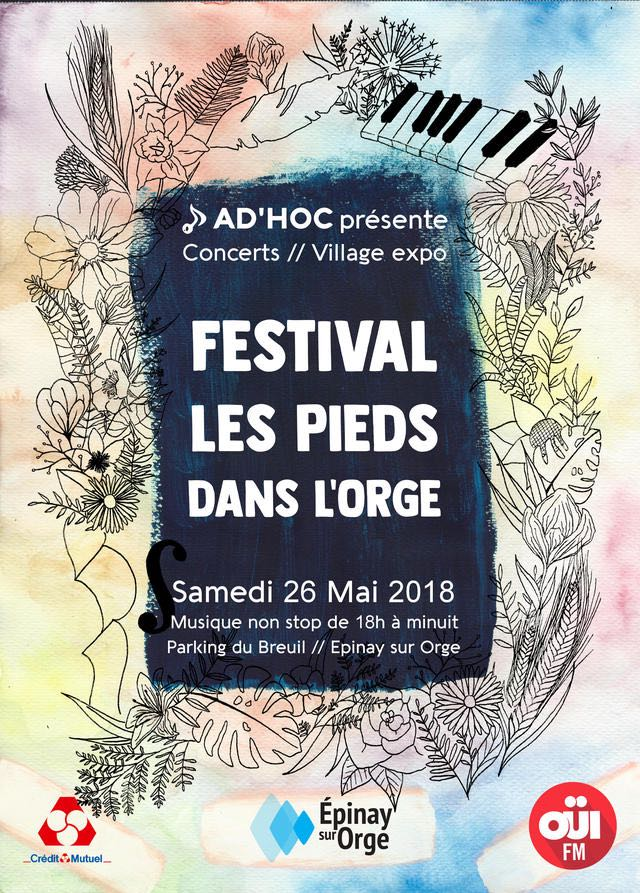
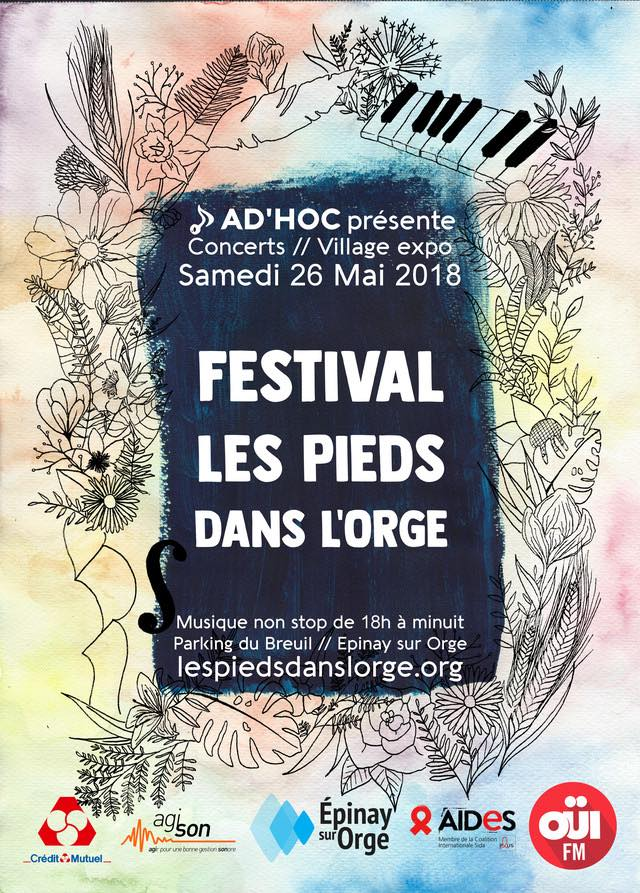
maj village

diff --git a/app/artistes.js b/app/artistes.js
@@ -3,11 +3,10 @@ module.exports = [
     id: 'conservatoire',
     name: 'Conservatoire d’Épinay-sur-Orge',
     style: 'Jazz Rock Pop',
-    description: '',
+    description: `
+    `,
     photo: '/img/artistes/conservatoire.jpg',
     video: '',
-    scene: 'petite',
-    horaire: '18:00', // 20 min
     links: {
       site: 'https://sites.google.com/site/conservatoireepinaysurorge2/',
       facebook: 'https://www.facebook.com/ConservatoireEpinaySurOrge/'
@@ -17,11 +16,11 @@ module.exports = [
     id: 'sozik',
     name: 'SOZIK',
     style: 'Jazz Rock Pop',
-    description: 'SOZIK propose un enseignement musical inédit, axé sur la création. Venez apprendre un instrument, à composer et à enregistrer vos propres morceaux !',
+    description: `
+SOZIK propose un enseignement musical inédit, axé sur la création. Venez apprendre un instrument, à composer et à enregistrer vos propres morceaux !
+    `,
     photo: '/img/artistes/sozik.jpg',
     video: '',
-    scene: 'grande',
-    horaire: '18:20', // 20 min
     links: {
       site: 'http://www.so-zik.fr/',
       facebook: 'https://www.facebook.com/sozik91/'
@@ -31,11 +30,11 @@ module.exports = [
     id: 'resonance',
     name: 'Résonance',
     style: 'Pop rock alternatif',
-    description: 'Ce groupe féminin de Palaiseau ne s’encombre pas d’un quatuor rock classique. Ni de textes anglais pour imiter les modèles du genre. A elles seules, Virginie et Cécilia forment un duo guitare-chant/batterie de pop française grungy, doux-amer et électrique. A l’image de ses rythmiques déterminées, Résonance n’y va pas par quatre chemins pour faire entendre ses histoires du quotidien. Le chant francophone trouve un équilibre délicat sur des accords à la Cobain.',
+    description: `
+Ce groupe féminin de Palaiseau ne s’encombre pas d’un quatuor rock classique. Ni de textes anglais pour imiter les modèles du genre. A elles seules, Virginie et Cécilia forment un duo guitare-chant/batterie de pop française grungy, doux-amer et électrique. A l’image de ses rythmiques déterminées, Résonance n’y va pas par quatre chemins pour faire entendre ses histoires du quotidien. Le chant francophone trouve un équilibre délicat sur des accords à la Cobain.
+    `,
     photo: '/img/artistes/resonance.jpg',
     video: 'https://www.youtube-nocookie.com/embed/1HfFqDTr5A4',
-    scene: 'petite',
-    horaire: '19:00', // 30 min
     links: {
       site: 'https://resonance-fr.bandcamp.com',
       facebook: 'https://www.facebook.com/resonancerock',
@@ -46,14 +45,13 @@ module.exports = [
     id: 'seriousstuff',
     name: 'Serious Stuff',
     style: 'Groove',
-    description: `Serious Stuff est un groupe de 7 musiciens de la région parisienne qui jouent pour le plaisir et visent à produire une musique Groovy de qualité sans se prendre trop au sérieux !
-    Leur répertoire est un mélange de compositions et de reprises aux influences variées : Parfois Blues-Rock ou plus orienté Funk, Soul, Jazz voire Reggae, ils ne veulent pas se mettre de barrières stylistiques trop rigides.
-    Leur dénominateur commun est le GROOVE. Vous savez, ce petit truc qui vous donne inconsciemment envie de taper du pied et bouger votre corps !`,
+    description: `
+Serious Stuff est un groupe de 7 musiciens de la région parisienne qui jouent pour le plaisir et visent à produire une musique Groovy de qualité sans se prendre trop au sérieux !
+Leur répertoire est un mélange de compositions et de reprises aux influences variées : Parfois Blues-Rock ou plus orienté Funk, Soul, Jazz voire Reggae, ils ne veulent pas se mettre de barrières stylistiques trop rigides.
+Leur dénominateur commun est le GROOVE. Vous savez, ce petit truc qui vous donne inconsciemment envie de taper du pied et bouger votre corps !
+    `,
     photo: '/img/artistes/seriousstuff.jpg',
-    video: '',
     video: 'https://www.facebook.com/plugins/video.php?href=https%3A%2F%2Fwww.facebook.com%2Fseriousstuffmusic%2Fvideos%2F608402309350030%2F&show_text=0&width=560&mute=0',
-    scene: 'grande',
-    horaire: '19:30', // 35 min
     links: {
       facebook: 'https://www.facebook.com/seriousstuffmusic/'
     }
@@ -62,19 +60,19 @@ module.exports = [
     id: 'pricklypearl',
     name: 'Prickly Pearl',
     style: 'Pop Folk',
-    description: `Le Projet Prickly Pearl débute en 2011. Loïc, après diverses expériences, veut revenir à ses premières amours aux sources de la musique populaire américaine.
+    description: `
+Le Projet Prickly Pearl débute en 2011. Loïc, après diverses expériences, veut revenir à ses premières amours aux sources de la musique populaire américaine.
 Sa rencontre avec Carole, à la voix grave et aux accents "Soul", est comme une évidence. Ensemble, ils vont ciseler et modeler les morceaux et définir les bases de la musique de Prickly Pearl: une Folk hybride aux racines multiples Country, Jazz, Blues, Soul.
-Dès leurs premiers passages dans les clubs, ils rencontrent un public enthousiaste, qui les encourage à poursuivre, et leur fait prendre conscience de l'aspect fédérateur de leur musique. Puis les salles de concert s’agrandissent : le Sentier des Halles et le Batofar.
-Afin d'accompagner le développement de ce projet, l'association Prickly Records voit le jour en Octobre 2012.
-Autour de Carole et Loïc plusieurs musiciens se joignent à l'aventure et Prickly Pearl trouve un équilibre artistique avec l'arrivée de Christian à la batterie et Laurent à la basse en 2013. C'est ainsi que l'éclectisme des inspirations de Prickly Pearl prend définitivement forme, ajoutant une pointe de Rock et de Pop à cette formation qui ne s'interdit plus rien.
-Bien que Christian les quitte en 2015, l'univers qu'ils ont créé ensemble demeure jusqu'à aujourd'hui l'empreinte de Prickly Pearl.
-Les mélodies et l’émotion véhiculées par Prickly Pearl vous accompagnent longtemps à ce qu'en dit le Public.
+Dès leurs premiers passages dans les clubs, ils rencontrent un public enthousiaste, qui les encourage à poursuivre, et leur fait prendre conscience de l’aspect fédérateur de leur musique. Puis les salles de concert s’agrandissent : le Sentier des Halles et le Batofar.
+Afin d’accompagner le développement de ce projet, l’association Prickly Records voit le jour en Octobre 2012.
+Autour de Carole et Loïc plusieurs musiciens se joignent à l’aventure et Prickly Pearl trouve un équilibre artistique avec l’arrivée de Christian à la batterie et Laurent à la basse en 2013. C’est ainsi que l’éclectisme des inspirations de Prickly Pearl prend définitivement forme, ajoutant une pointe de Rock et de Pop à cette formation qui ne s’interdit plus rien.
+Bien que Christian les quitte en 2015, l’univers qu’ils ont créé ensemble demeure jusqu’à aujourd’hui l’empreinte de Prickly Pearl.
+Les mélodies et l’émotion véhiculées par Prickly Pearl vous accompagnent longtemps à ce qu’en dit le Public.
 Très vite vous vous surprendrez à siffler un air de Prickly Pearl…
-La sortie du premier EP 6 titres de Prickly Pearl est prévu pour début 2017.`,
+La sortie du premier EP 6 titres de Prickly Pearl est prévu pour début 2017.
+    `,
     photo: '/img/artistes/pricklypearl.jpg',
-    video: 'https://www.youtube-nocookie.com/embed/BMYOvpYvOR4',
-    scene: 'petite',
-    horaire: '20:05', // 35 min
+    video: 'https://www.youtube-nocookie.com/embed/oPEEF5zrh0I',
     links: {
       site: 'http://pricklypearl.wix.com/website',
       soundclound: 'https://w.soundcloud.com/player/?url=https%3A//api.soundcloud.com/users/6455041&amp;color=ff5500&amp;auto_play=false&amp;hide_related=false&amp;show_comments=false&amp;show_user=true&amp;show_reposts=false',
@@ -86,11 +84,11 @@ La sortie du premier EP 6 titres de Prickly Pearl est prévu pour début 2017.`,
     id: 'oddfiction',
     name: 'Odd Fiction',
     style: 'Métal Progressif',
-    description: `Odd Fiction est une agence de voyage spécialisée dans l’exploration de paysages sonores. Véritables aventuriers du son, nous vous offrons le choix de visiter les contrées musicales les plus diverses : Funkalousie, Métaland, Rockproguistan, Experigascar… Ainsi, il vous est possible de choisir parmi une grande variété de climats mélodiques, mais aussi d’activités : Head-Banging extrême dans les blasts glacés Métalandais, Slow romantique dans l’ambiance lumineuse de Post-Rock city, ou courses de quad à 200 BPM dans les carrières rocailleuses de la République de Noise. Alors n’hésitez pas à embarquer pour un voyage unique au monde, fort en dissonances et rythmiques ambiguës, dont personne encore n’est jamais revenu.`,
+    description: `
+Odd Fiction est une agence de voyage spécialisée dans l’exploration de paysages sonores. Véritables aventuriers du son, nous vous offrons le choix de visiter les contrées musicales les plus diverses : Funkalousie, Métaland, Rockproguistan, Experigascar… Ainsi, il vous est possible de choisir parmi une grande variété de climats mélodiques, mais aussi d’activités : Head-Banging extrême dans les blasts glacés Métalandais, Slow romantique dans l’ambiance lumineuse de Post-Rock city, ou courses de quad à 200 BPM dans les carrières rocailleuses de la République de Noise. Alors n’hésitez pas à embarquer pour un voyage unique au monde, fort en dissonances et rythmiques ambiguës, dont personne encore n’est jamais revenu.
+    `,
     photo: '/img/artistes/oddfiction.jpg',
     video: 'https://www.youtube-nocookie.com/embed/BGeb9ppDMZs',
-    scene: 'grande',
-    horaire: '20:40', // 40 min
     links: {
       site: 'http://www.oddfiction.fr/',
       facebook: 'https://www.facebook.com/OddFiction/',
@@ -101,11 +99,12 @@ La sortie du premier EP 6 titres de Prickly Pearl est prévu pour début 2017.`,
     id: 'abracadabra',
     name: 'Abracadabra',
     style: 'Jazz Fusion',
-    description: '',
+    description: `
+Les membres du groupe/collectif se sont rencontré naturellement dans differentes JAM sessions (du nord de l’Essonne), dans les théatre, les salles municipales, des salles à manger, des duplex, des soirées garage... FARID et TRISTAN jouaient ensemble de "l’afro-reggae music" dans le groupe Djame Salam (gagnant de differents concours LADIAM, passages FR3 etc...) Tristan, chanteur a réalisé une centaine de videoclips dans les années 2000.
+La musique ouverte d’esprit est le dénominateur commun et ce qui motive chaque musicien c’est donc fort de notre expérience à tous, surtout en region parisienne, que nous avons décidé de porter un projet ensemble.
+    `,
     photo: '/img/artistes/abracadabra.jpg',
     video: 'https://www.facebook.com/plugins/video.php?href=https%3A%2F%2Fwww.facebook.com%2F1689859227982570%2Fvideos%2F1775594402742385%2F&show_text=0&width=560&mute=0',
-    scene: 'petite',
-    horaire: '21:20', // 35 min
     links: {
       facebook: 'https://www.facebook.com/Abracadabra-1689859227982570'
     }
@@ -114,11 +113,11 @@ La sortie du premier EP 6 titres de Prickly Pearl est prévu pour début 2017.`,
     id: 'imparfait',
     name: 'Imparfait',
     style: 'Rock Urbain',
-    description: 'IMPARFAIT c’est quatre personnalités, un groupe, une énergie fédératrice. Sur scène le quatuor délivre un rock brut et sans concession.',
+    description: `
+IMPARFAIT c’est quatre personnalités, un groupe, une énergie fédératrice. Sur scène le quatuor délivre un rock brut et sans concession.
+    `,
     photo: '/img/artistes/imparfait.jpg',
     video: 'https://www.youtube-nocookie.com/embed/ADdyuhP2beA',
-    scene: 'grande',
-    horaire: '21:55', // 40 min
     links: {
       facebook: 'https://www.facebook.com/imparfait.musique/',
       instagram: 'https://www.instagram.com/imparfait.musique/',
@@ -129,12 +128,12 @@ La sortie du premier EP 6 titres de Prickly Pearl est prévu pour début 2017.`,
     id: 'martycanfly',
     name: 'Marty Can Fly',
     style: '8bits Cheap Tunes',
-    description: `Marty Can Fly mélange Power-Pop et 8-Bit-Rock, et vous propose un spectacle bon-enfant qui vous plongera dans une ambiance musicale décalée, inspirée du cinéma, de la télévision et des jeux vidéo.
-    Ce cocktail sonore délirant mélangeant retro et Rock-Chiptune est assurément joyeux et surprenant.`,
+    description: `
+Marty Can Fly mélange Power-Pop et 8-Bit-Rock, et vous propose un spectacle bon-enfant qui vous plongera dans une ambiance musicale décalée, inspirée du cinéma, de la télévision et des jeux vidéo.
+Ce cocktail sonore délirant mélangeant retro et Rock-Chiptune est assurément joyeux et surprenant.
+    `,
     photo: '/img/artistes/martycanfly.jpg',
-    video: 'https://www.youtube-nocookie.com/embed/auT3puUSNOs',
-    scene: 'petite',
-    horaire: '22:35', // 40 min
+    video: 'https://www.youtube-nocookie.com/embed/MbP5cJEDHsk',
     links: {
       facebook: 'https://www.facebook.com/martycanfly/',
       bandcamp: 'https://martycanfly.bandcamp.com/',
@@ -146,11 +145,11 @@ La sortie du premier EP 6 titres de Prickly Pearl est prévu pour début 2017.`,
     id: 'thestalls',
     name: 'The Stalls',
     style: 'Hard Rock',
-    description: 'The Stalls a choisi de fouiller les racines du rock en privilégiant les bons vieux sons vintages des guitares et des drums pour s’exprimer. Halte aux synthés et aux ordinateurs, place aux riffs saignants et à l’énergie pure. Fans d’authenticité, venez d’urgence découvrir The Stalls…',
+    description: `
+The Stalls a choisi de fouiller les racines du rock en privilégiant les bons vieux sons vintages des guitares et des drums pour s’exprimer. Halte aux synthés et aux ordinateurs, place aux riffs saignants et à l’énergie pure. Fans d’authenticité, venez d’urgence découvrir The Stalls…
+    `,
     photo: '/img/artistes/thestalls.jpg',
     video: 'https://www.youtube-nocookie.com/embed/2hyDJ8sSnkU',
-    scene: 'grande',
-    horaire: '23:15', // 45 min
     links: {
       site: 'http://the-stalls.com/',
       facebook: 'https://www.facebook.com/thestalls/',

diff --git a/app/village.js b/app/village.js
@@ -1,0 +1,62 @@
+module.exports = [
+  {
+    id: 'drinedraw',
+    name: 'DrineDraw',
+    style: 'Peinture contemporaine',
+    description: `
+Spinolienne depuis 2 ans, Sandrine Rozier est pianiste et professeur au Conservatoire de Musique de Saulx les Chartreux.
+Peintre depuis 2006, c’est à la demande d’une amie qui venait de perdre son fils d’une tumeur cérébrale qu’elle a décidé d’aider l’ARTC (Association pour la Recherche sur les Tumeurs Cérébrales), en se procurant des toiles, des pinceaux, en exposant lors des manifestations et en reversant une partie de la recette à l’Association.
+Ses plus grandes inspirations: les voyages où chaque pays lui offre de fabuleuses couleurs. La musique qui l’accompagne chaque jour dans son travail, et l’homme ... La plus belle création avec lequel elle aime communiquer, échanger, partager.
+Sandrine a toujours aimé peindre, dessiner, bricoler, cuisiner, jardiner. En 1 mot: CRÉER.
+Elle utilise l’huile, l’acrylique, des cernes relief, du sable, des pierres, ainsi que des motifs à coller, des pochoirs, du papier de soie marouflé...
+Ses toiles peuvent servir de décoration contemporaine.
+    `,
+    photo: '/img/village/drinedraw.jpg',
+    links: {
+      site: 'http://fr.artquid.com/artist/drinedraw/sandrine-r-drinedraw.html',
+      facebook: 'https://www.facebook.com/Drinedraw-1948756922052140/',
+    } 
+  },
+  {
+    id: 'roseline-scoupe',
+    name: 'Roseline Scoupe',
+    style: 'Peinture, fusain, masques',
+    description: `
+À propos de son travail : « Ma peinture est plutôt instinctive, intuitive, symbolique. Comme la poésie ou bien la musique pour certains, la peinture est pour moi un voyage où les sentiments se mêlent et s’emmêlent… se posent ! Le parcours de vie avec ses douleurs et ses joies, la beauté que la nature offre à notre regard, tout cela me touche profondément et le besoin se ressent de transposer sur la toile. »
+    `,
+    photo: '/img/village/roseline-scoupe.jpg',
+    links: {
+      site: 'http://www.atelier-enilesor.fr/'
+    }
+  },
+  {
+    id: 'plis-foss',
+    name: 'Plis Foss',
+    style: 'Restauration',
+    photo: '/img/village/plis-foss.jpg',
+    description: `
+L’association a pour objet de promouvoir, d’entretenir des liens d’amitié entre les membres et la population environnante quelle que soit leur nationalité.
+D’autre part faire connaître et valoriser la culture antillaise, guyannaise et africaine par le biais de leurs différentes spécialités culinaires et artistiques.
+Organiser différents événements, rencontres et débats à thème, voyages, sorties, pique-nique, ateliers et travaux manuels, journées portes ouvertes, venir en aide à ses membres dans la mesure de ses possibilités.
+Pour le festival, l’association tiendra un stand de restauration.
+    `,
+    links: {
+    }
+  },
+  {
+    id: 'aides',
+    name: 'AIDES',
+    style: 'Prévention',
+    photo: '/img/village/aides.jpg',
+    description: `
+AIDES est une association française de lutte contre le VIH et les hépatites virales, créée en 1984 et reconnue d’utilité publique depuis 1990. L’association mène des actions d’information, de prévention, de soutien et de mobilisation des personnes concernées par le VIH et les hépatites.
+    `,
+    links: {
+      site: 'https://www.aides.org',
+      facebook: 'https://www.facebook.com/aides/',
+      twitter: 'https://twitter.com/assoaides',
+      instagram: 'https://www.instagram.com/assoaides/',
+      youtube: 'https://www.youtube.com/user/AIDES/videos'
+    }
+  }
+];

diff --git a/app/app.js b/app/app.js
@@ -1,7 +1,7 @@
 /* globals $, google, document */
 
 const dbArtistes = require('./artistes');
-// const dbExposants = require('./exposants');
+const dbVillage = require('./village');
 
 const gmap =
 {
@@ -16,8 +16,7 @@ function buildModal(obj) {
   <div class="bfc">
   <img src="${obj.photo}" width="480" height="360" style="float:left;padding-right:10px;padding-bottom:10px">
   <h4>${obj.name}</h4>
-  <p><strong>${obj.style}</strong></p>
-  <p>Scène: <strong>${obj.scene}</strong></p>`;
+  <p><strong>${obj.style}</strong></p>`;
 
   if (obj.links.site) {
     content += `<a class="badge social site" href="${obj.links.site}" target="_blank" title="lien vers le site"><img src="/img/social/site.svg" alt=""/></a>`;
@@ -76,8 +75,8 @@ function handleModalControls() {
  */
 function showModal(id) {
   if (!id) return;
-  const artiste = dbArtistes.filter(obj => (obj.id === id))[0];
-  buildModal(artiste);
+  const obj = dbArtistes.filter(obj => (obj.id === id))[0] || dbVillage.filter(obj => (obj.id === id))[0];
+  buildModal(obj);
   handleModalControls();
   $('.modal').show(); // affiche le fond
   $('.modal-content').hide(); // ferme les autres
@@ -103,8 +102,7 @@ function initResponsiveMenu() {
  * Charge la section Artistes
  */
 function initArtistes() {
-  // filtre grande scène ou petite scène
-  const artistes = dbArtistes.filter(obj => (obj.scene === 'grande' || obj.scene === 'petite'));
+  const artistes = dbArtistes;
   // tri alphabétique
   artistes.sort((a, b) => a.name > b.name);
   const list = $('<div class="grid-3-small-2 has-gutter-l"/>');
@@ -118,6 +116,30 @@ function initArtistes() {
     list.append(div);
   });
   $('#artistes-content').append(list);
+  $('.artiste a').click((e) => {
+    e.preventDefault();
+    showModal(e.currentTarget.dataset.open);
+  });
+}
+
+/**
+ * Charge la section Village
+ */
+function initVillage() {
+  const village = dbVillage;
+  // tri alphabétique
+  village.sort((a, b) => a.name > b.name);
+  const list = $('<div class="grid-3-small-2 has-gutter-l"/>');
+  village.forEach((e) => {
+    const div = `<div class="artiste">
+      <a data-open="${e.id}">
+        <img src="${e.photo}"/>
+        <h4 class="button">${e.name}</h4>
+      </a>
+    </div>`;
+    list.append(div);
+  });
+  $('#village-content').append(list);
   $('.artiste a').click((e) => {
     e.preventDefault();
     showModal(e.currentTarget.dataset.open);
@@ -165,7 +187,7 @@ function initSmoothScroll() {
 function init() {
   initResponsiveMenu();
   initArtistes();
-  //initPlanning();
+  initVillage();
   initMap();
   initSmoothScroll();
   handleModalControls();

diff --git a/app/assets/index.html b/app/assets/index.html
@@ -32,7 +32,7 @@
                 <ul>
                   <li><a href="#affiche">Affiche</a></li>
                   <li><a href="#artistes">Artistes</a></li>
-                  <li><a href="#village-associatif">Village Associatif</a></li>
+                  <li><a href="#village">Village Associatif</a></li>
                 </ul>
               </li>
               <li>
@@ -69,8 +69,8 @@
         <div id="artistes-content"></div>
         <div class="modal" id="artiste-content"></div>
 
-        <h3 id="village-associatif">Village Associatif</h3>
-        <div id="village-associatif-content">Le village sera composé de plusieurs stands d’artistes (peinture, scuplture), ainsi qu’un pôle prévention. Une buvette sera à disposition ainsi qu’un foodtruck.</div>
+        <h3 id="village">Village Associatif</h3>
+        <div id="village-content"></div>
       </section>
 
       <section id="festival">
